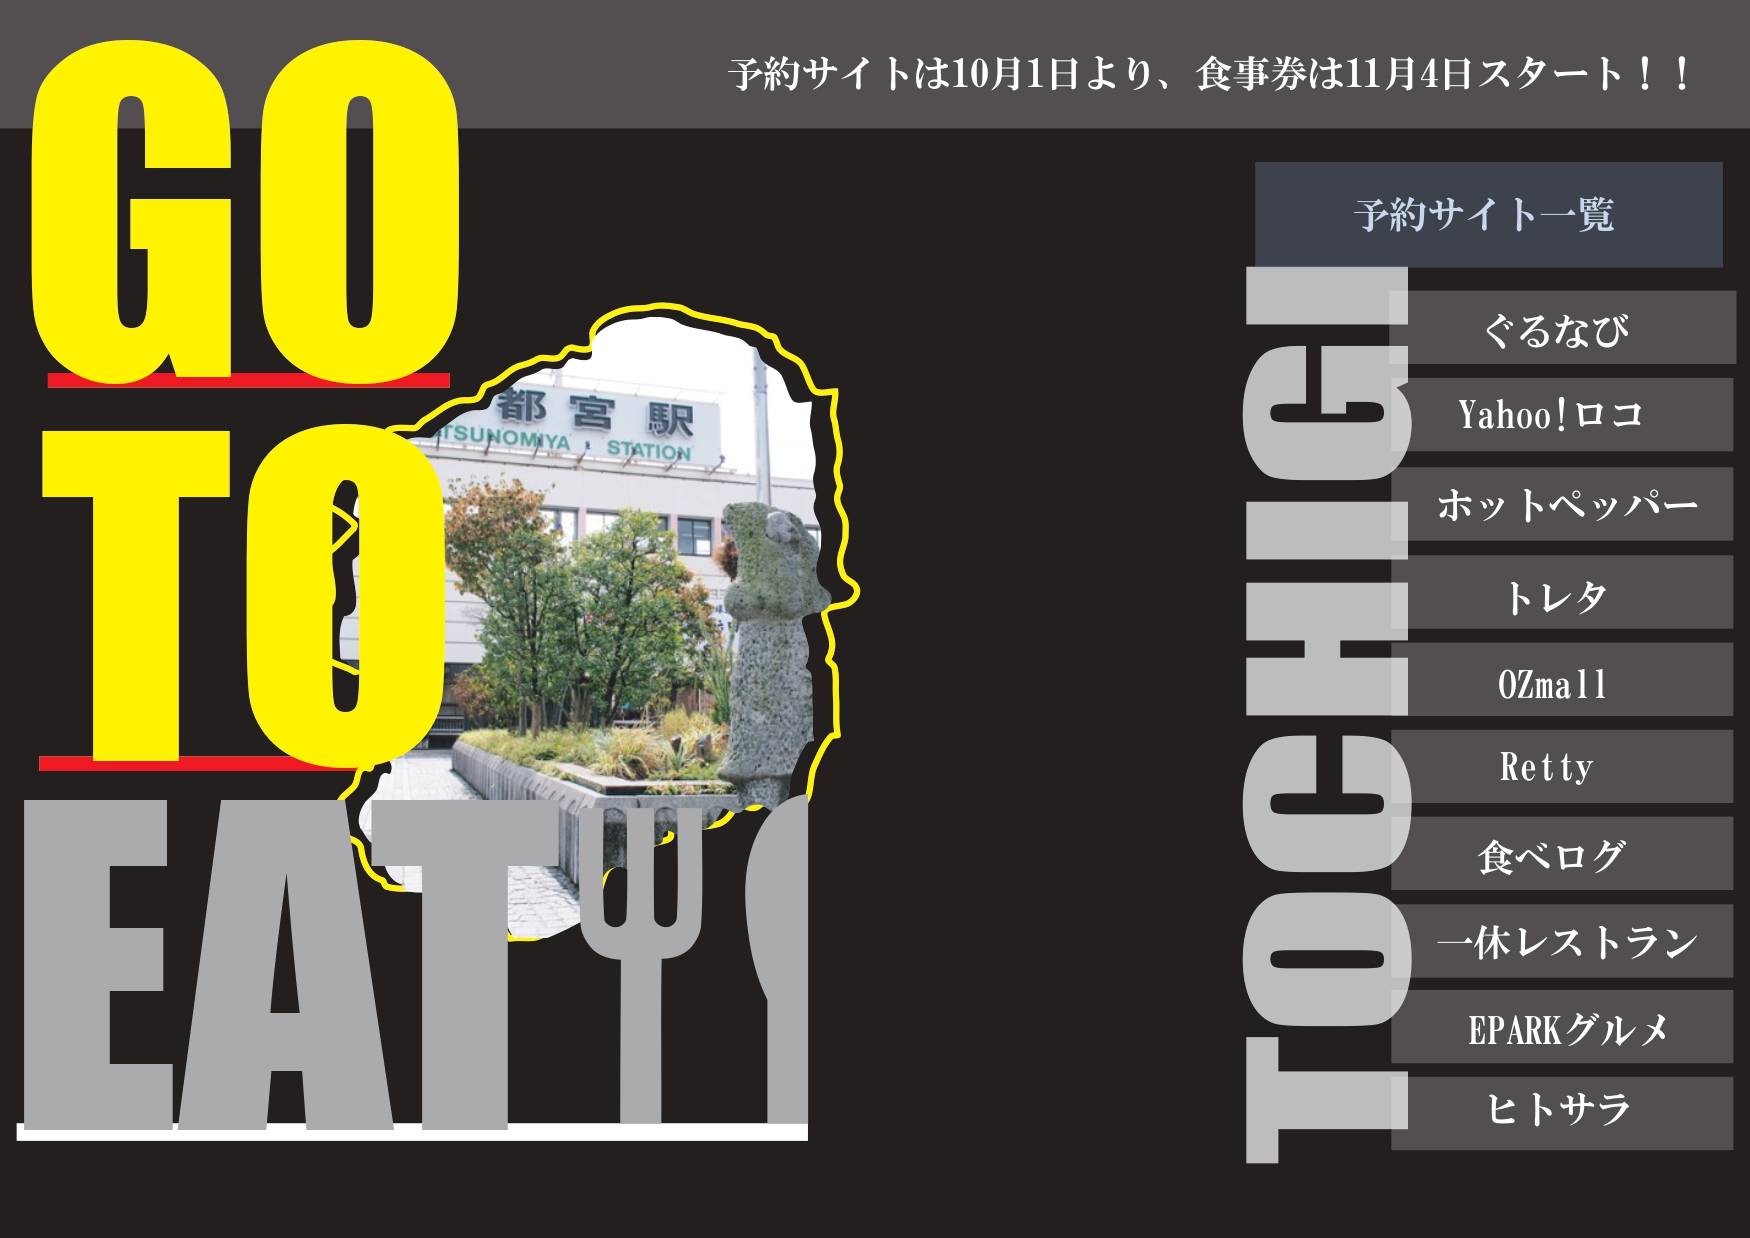
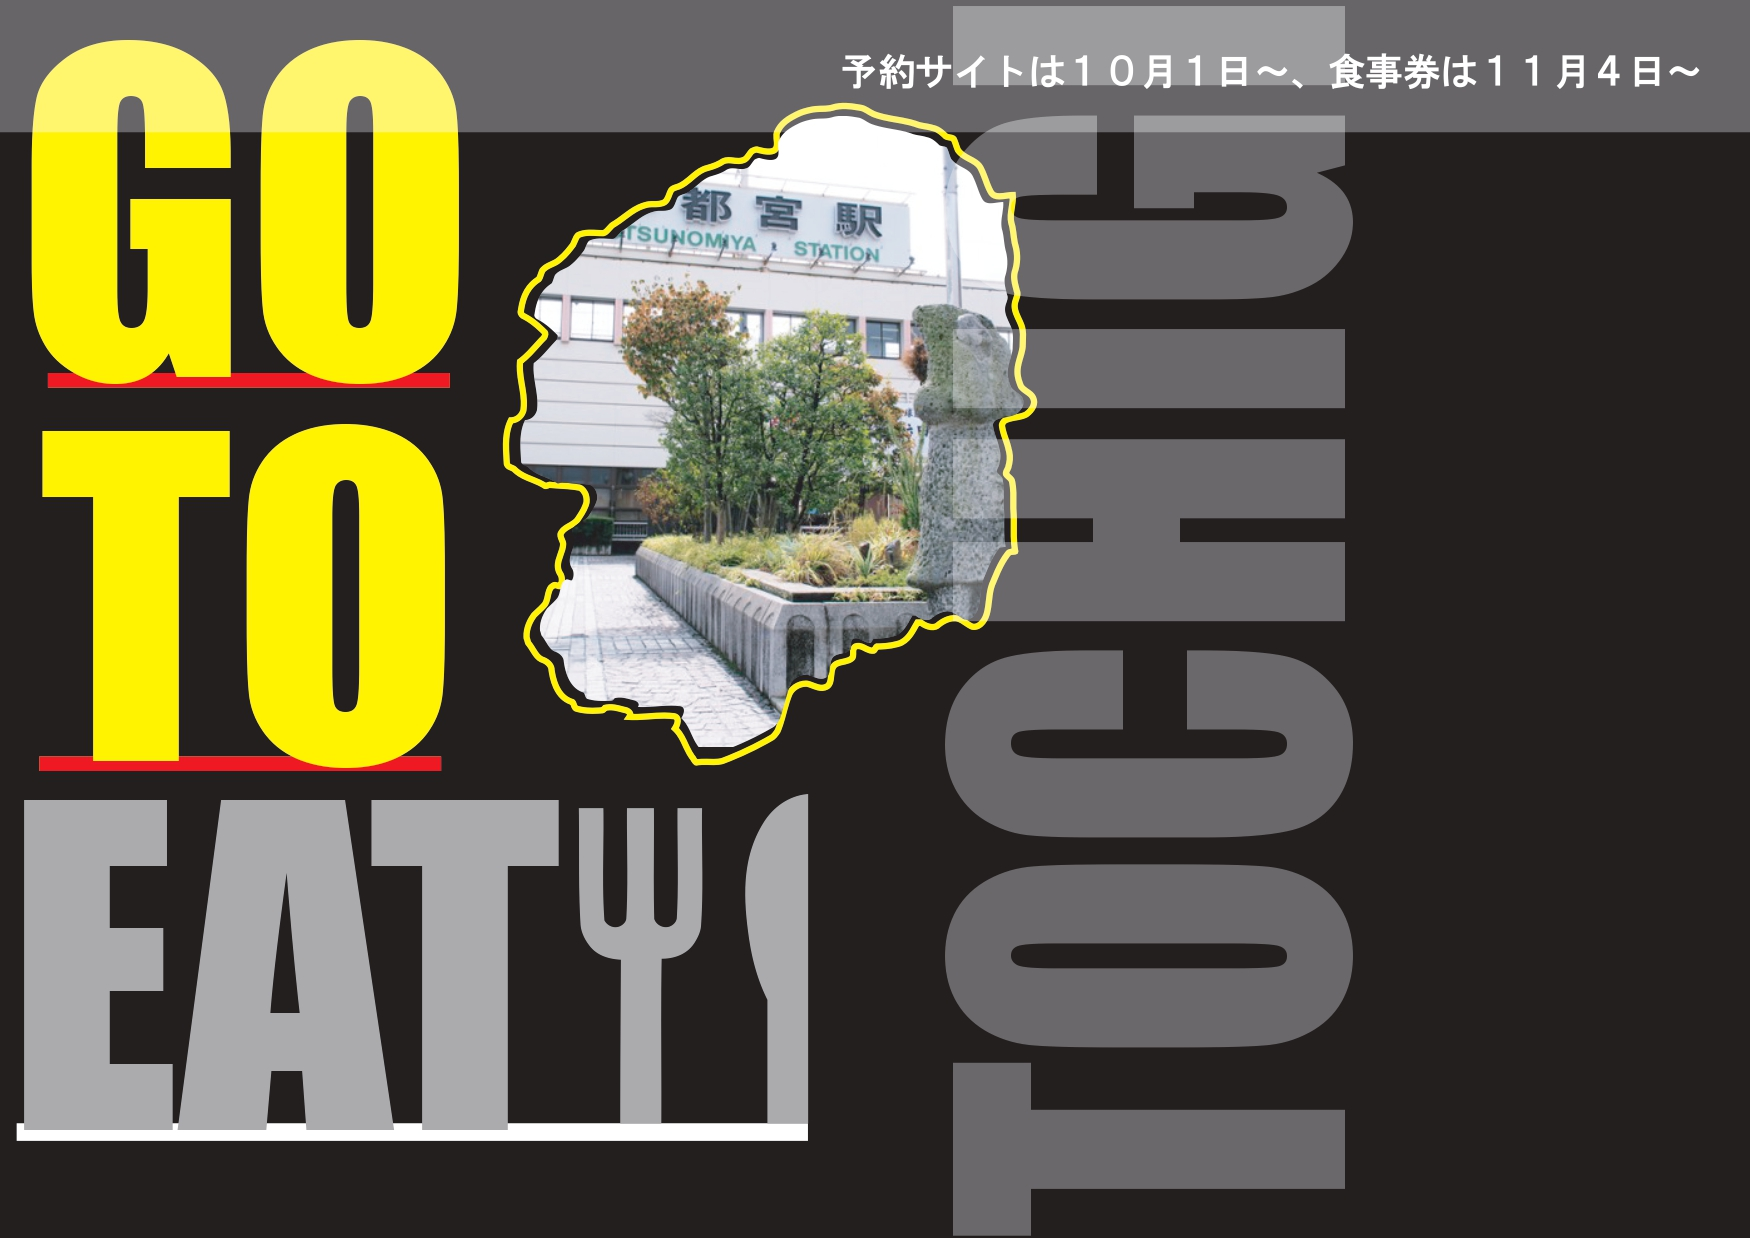
トップ変更（リンクの作成）

diff --git a/app/assets/stylesheets/style.css b/app/assets/stylesheets/style.css
@@ -36,6 +36,7 @@ header {
   width: 20%;
   padding: 20px;
   color: white;
+  font-size: 20px;
 }
 
 .nav-lists {
@@ -43,12 +44,13 @@ header {
   padding: 0;
   display: flex;
   justify-content: space-between;
+  font-size: 14px;
 }
 
 li {
   list-style: none;
-}
 
+}
 
 .contents {
   background-image: url('gotoeat2.jpg');
@@ -57,23 +59,27 @@ li {
   position: relative;
 }
 
+.link-site {
+  position: absolute;
+  top: 200px;
+  left: 1200px;
+  margin: 5px;
+  font-size: 24px;
+  text-decoration: none;
+  color: white;
+}
+.site {
+  color: white;
+  text-decoration: none;
+  border-bottom: 5px solid red;
+}
+
+
+
 .first-view{
   height: 100vh;
   background-color: black;
 }
-
-.link-site {
-  position: absolute;
-  top: 200px;
-  right: 0;
-  margin: 5px;
-}
-
-a {
-  font-size: 36px;
-  text-decoration: none;
-  color: white;
-  }
 
 .top-image {
   height: 120%;
@@ -95,6 +101,7 @@ a {
   width: 200px;
   margin: 10px auto;
   color: white;
+  font-size: 24px;
 }
 
 .messages {
